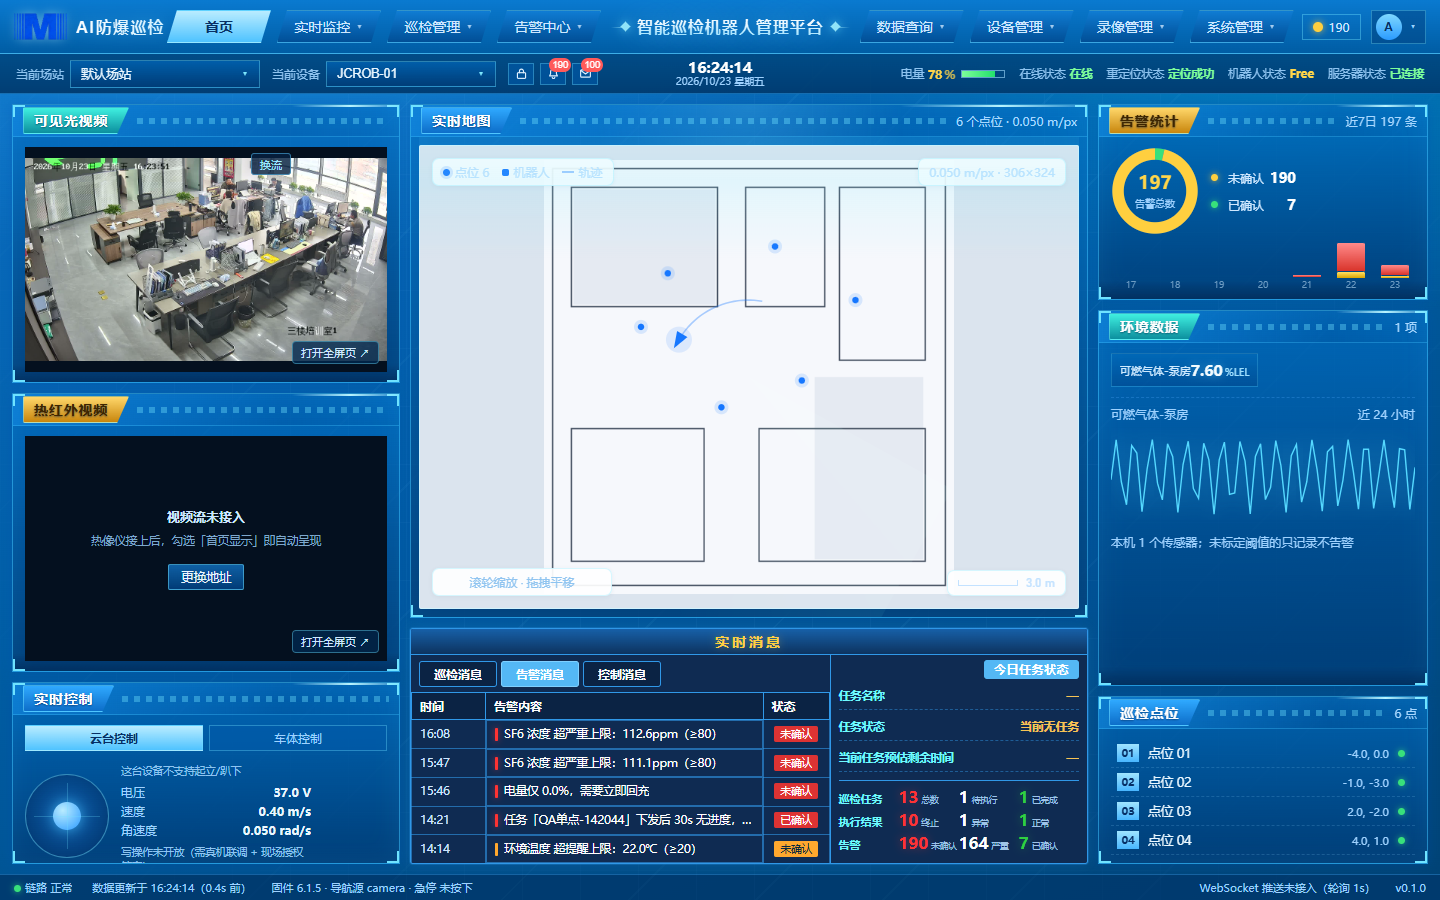
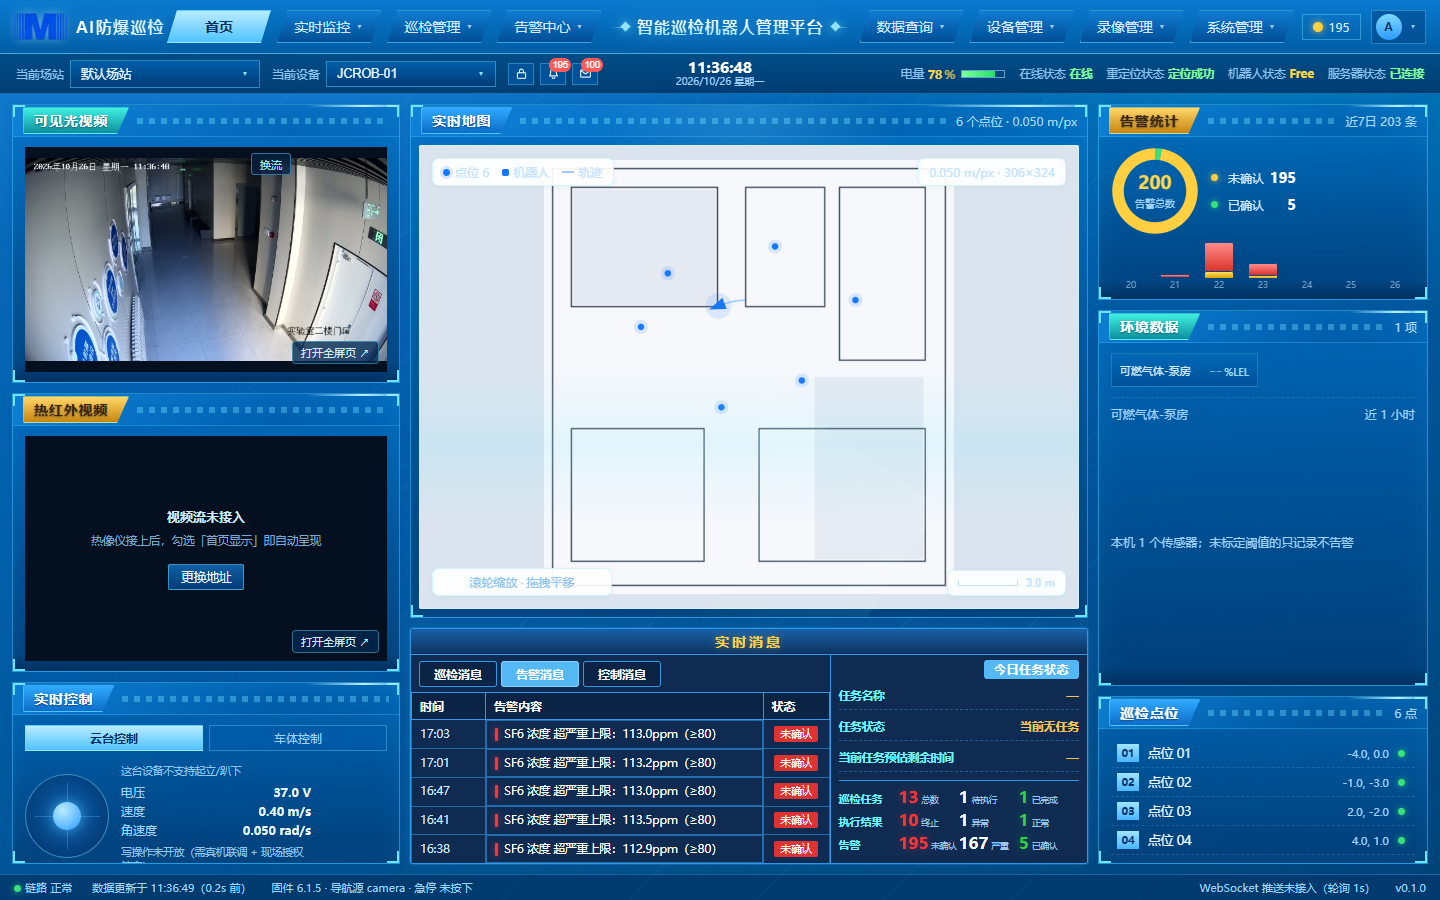
fix(video): 修 videos.py 语法错误 + 换流/改地址后转码进程不重启的老 bug
1) videos.py 把 _STREAMS_CACHE 声明插到了装饰器与函数之间，导致 SyntaxError，
   后端起不来（本机 http://127.0.0.1:8000 直接拒连）。已移到模块级。
2) registry.acquire 只按 video_id 复用转码进程，源改了还在播旧相机：
   实测把视频1 从 dog_ptz 改回 camera_02 后，画面仍是 Camera 01。
   现在 url 变化即 stop 并重建。
3) 顺带把开发库 JCROB-01 的可见光恢复成自己的 camera_02（之前测试改乱了）。

验证：77 用例通过；首页可见光显示 camera_02（实验楼二楼门厅）。

diff --git a/server/app/api/v1/videos.py b/server/app/api/v1/videos.py
@@ -35,6 +35,7 @@ router = APIRouter(prefix="/videos", tags=["videos"])
 
 # 抓帧缓存：id -> (时间戳, jpeg bytes)。摄像头多路时避免每次刷新都拉一遍流。
 _SNAP_CACHE: dict[int, tuple[float, bytes]] = {}
+_STREAMS_CACHE: dict[str, tuple[dict, float]] = {}
 _SNAP_TTL = 2.0
 _FFMPEG = shutil.which("ffmpeg")
 def _alive(video_id: int) -> list[subprocess.Popen]:
@@ -207,9 +208,6 @@ def list_videos(
 
 
 @router.get("/go2rtc-streams")
-_STREAMS_CACHE: dict[str, tuple[dict, float]] = {}
-
-
 def list_go2rtc_streams(
     all: bool = Query(False, description="true 时列出 go2rtc 全部流（排障用）"),
     db: Session = Depends(get_db),

diff --git a/server/app/services/video_stream.py b/server/app/services/video_stream.py
@@ -121,6 +121,11 @@ class StreamRegistry:
     def acquire(self, video_id: int, url: str) -> VideoStream:
         with self._lock:
             stream = self._streams.get(video_id)
+            # 源变了（换流/改地址）必须重启：只按 video_id 复用会让画面停在旧相机上
+            if stream is not None and stream.url != url:
+                stream.stop()
+                self._streams.pop(video_id, None)
+                stream = None
             if stream is None or not stream.running:
                 stream = VideoStream(video_id, url)
                 stream.start()
